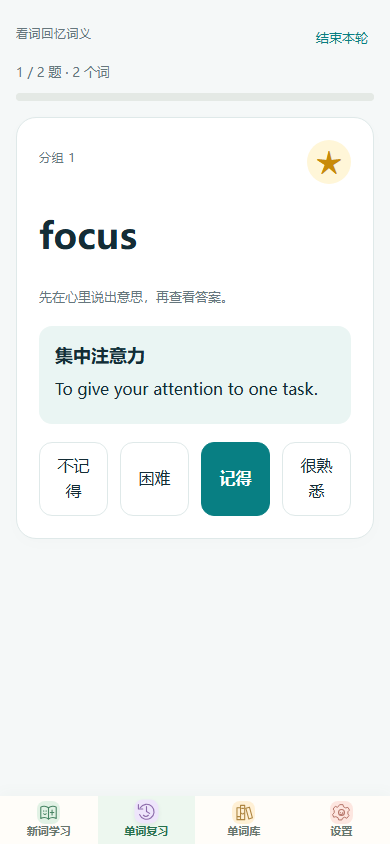
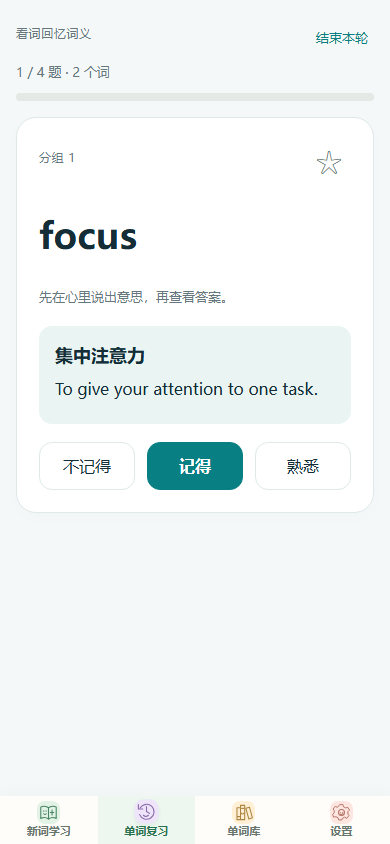
Simplify review rating to three levels and document both practice modes

diff --git a/web/offline-assets.js b/web/offline-assets.js
@@ -1,6 +1,6 @@
 // Generated by tools/build-offline.mjs. Never includes personal data.
 self.WORDMEMO_SHELL = {
-  "version": "54507478997614fabad00a30",
+  "version": "a325207c789af9bdbf03c265",
   "assets": [
     {
       "path": "app.js",
@@ -36,7 +36,7 @@ self.WORDMEMO_SHELL = {
     },
     {
       "path": "domain/scheduler.js",
[2 lines of base64/hex data omitted]
     },
     {
       "path": "icon.png",
@@ -104,7 +104,7 @@ self.WORDMEMO_SHELL = {
     },
     {
       "path": "ui/review.js",
[2 lines of base64/hex data omitted]
     },
     {
       "path": "ui/runtime.js",

diff --git a/web/domain/scheduler.js b/web/domain/scheduler.js
@@ -3,7 +3,7 @@ import { fsrs, createEmptyCard, generatorParameters } from '../vendor/fsrs.mjs';
 import { algorithm, validateRating, mergeRatingEvents } from './rating-contract.js';
 
 export { algorithm, mergeRatingEvents };
-export const feedback = [null, '不记得', '困难', '记得', '很熟悉'];
+export const feedback = [null, '不记得', '困难', '记得', '熟悉'];
 // Version these parameters together with algorithm. Changing defaults must not rewrite old history.
 export const parameters = generatorParameters({
   request_retention: 0.9,

diff --git a/web/ui/review.js b/web/ui/review.js
@@ -522,7 +522,7 @@ export async function recordResult(correct) {
 
 function ratingButtons(correct) {
   const actions = el('div', 'actions rating-actions');
-  const grades = correct ? [1, 2, 3, 4] : [1];
+  const grades = correct ? [1, 3, 4] : [1];
   for (const rating of grades)
     append(
       actions,

diff --git a/README.md b/README.md
@@ -6,13 +6,13 @@
 
 仓库：[memorize-words](https://github.com/wang189327-wq/memorize-words)。
 
-| 新词学习                                   | 单词库与筛选                                 | 复习范围与练习方式                      |
-| ------------------------------------------ | -------------------------------------------- | --------------------------------------- |
-| ![原创示例学习页面](docs/images/learn.png) | ![单词库搜索与分组](docs/images/library.png) | ![到期复习选择](docs/images/review.png) |
+| 新词学习                                   | 单词库与筛选                                 | 复习范围与练习方式                      | 自评模式：作答后记忆评分                               |
+| ------------------------------------------ | -------------------------------------------- | --------------------------------------- | ------------------------------------------------------ |
+| ![原创示例学习页面](docs/images/learn.png) | ![单词库搜索与分组](docs/images/library.png) | ![到期复习选择](docs/images/review.png) | ![查看答案后按三档评分](docs/images/review-rating.png) |
 
-| 作答后四档评分                                         | 本轮复习结果                                         | 本地备份与加密                        |
-| ------------------------------------------------------ | ---------------------------------------------------- | ------------------------------------- |
-| ![查看答案后按四档评分](docs/images/review-rating.png) | ![本轮完成与再记内容](docs/images/review-result.png) | ![备份设置](docs/images/settings.png) |
+| 自动判分：拼写题作答                                     | 自动判分结果与记忆评分                               | 本轮复习结果                                         | 本地备份与加密                        |
+| -------------------------------------------------------- | ---------------------------------------------------- | ---------------------------------------------------- | ------------------------------------- |
+| ![根据中文释义输入英文](docs/images/review-spelling.png) | ![判分后选择记忆程度](docs/images/review-graded.png) | ![本轮完成与再记内容](docs/images/review-result.png) | ![备份设置](docs/images/settings.png) |
 
 ## 为什么做这个
 
@@ -23,7 +23,7 @@
 ## 能做什么
 
 - 新词学习：按数量或分组选择，按词库顺序学习；7词、18词和结束时拼写巩固。
-- 今日到期：FSRS按四档反馈（不记得/困难/记得/很熟悉）安排间隔复习；同词多题每轮只计一次，保留手动选词。
+- 今日到期：FSRS按三档反馈（不记得/记得/熟悉）安排间隔复习；同词多题每轮只计一次，保留手动选词。
 - 单词复习：词义回忆、中文回忆拼写、句子填空、词形转换，可组合选择。
 - 收藏：单击星标，随机抽取收藏词，或输入起止范围按词库顺序复习。
 - 单词库：英文搜索、分组筛选、左右切换词卡；当日单词可带序号与释义复制。
